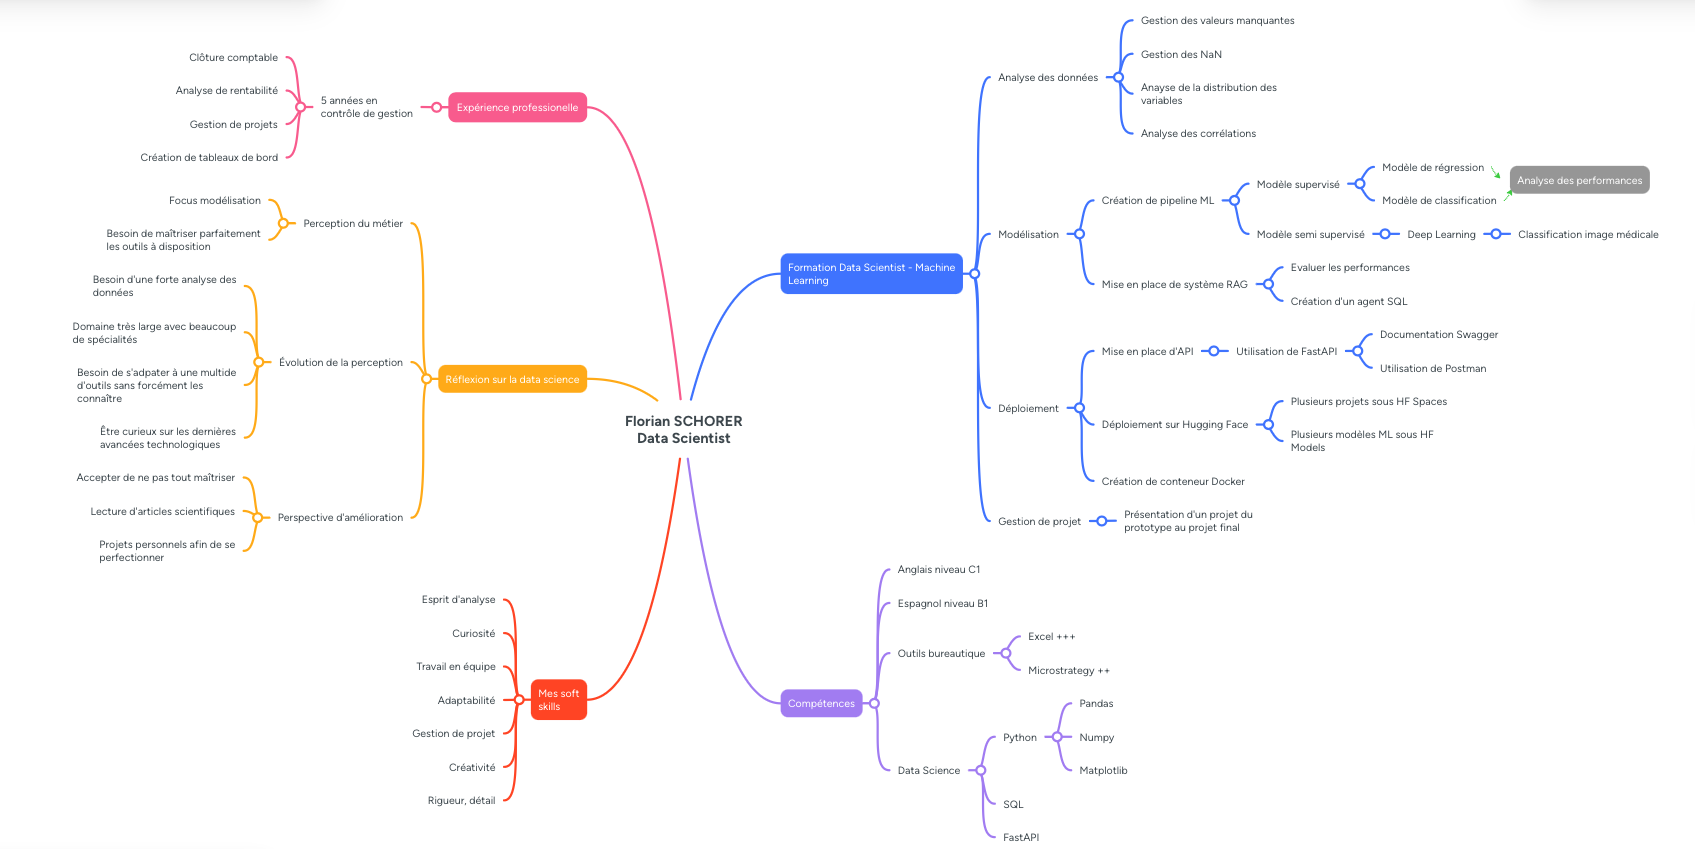
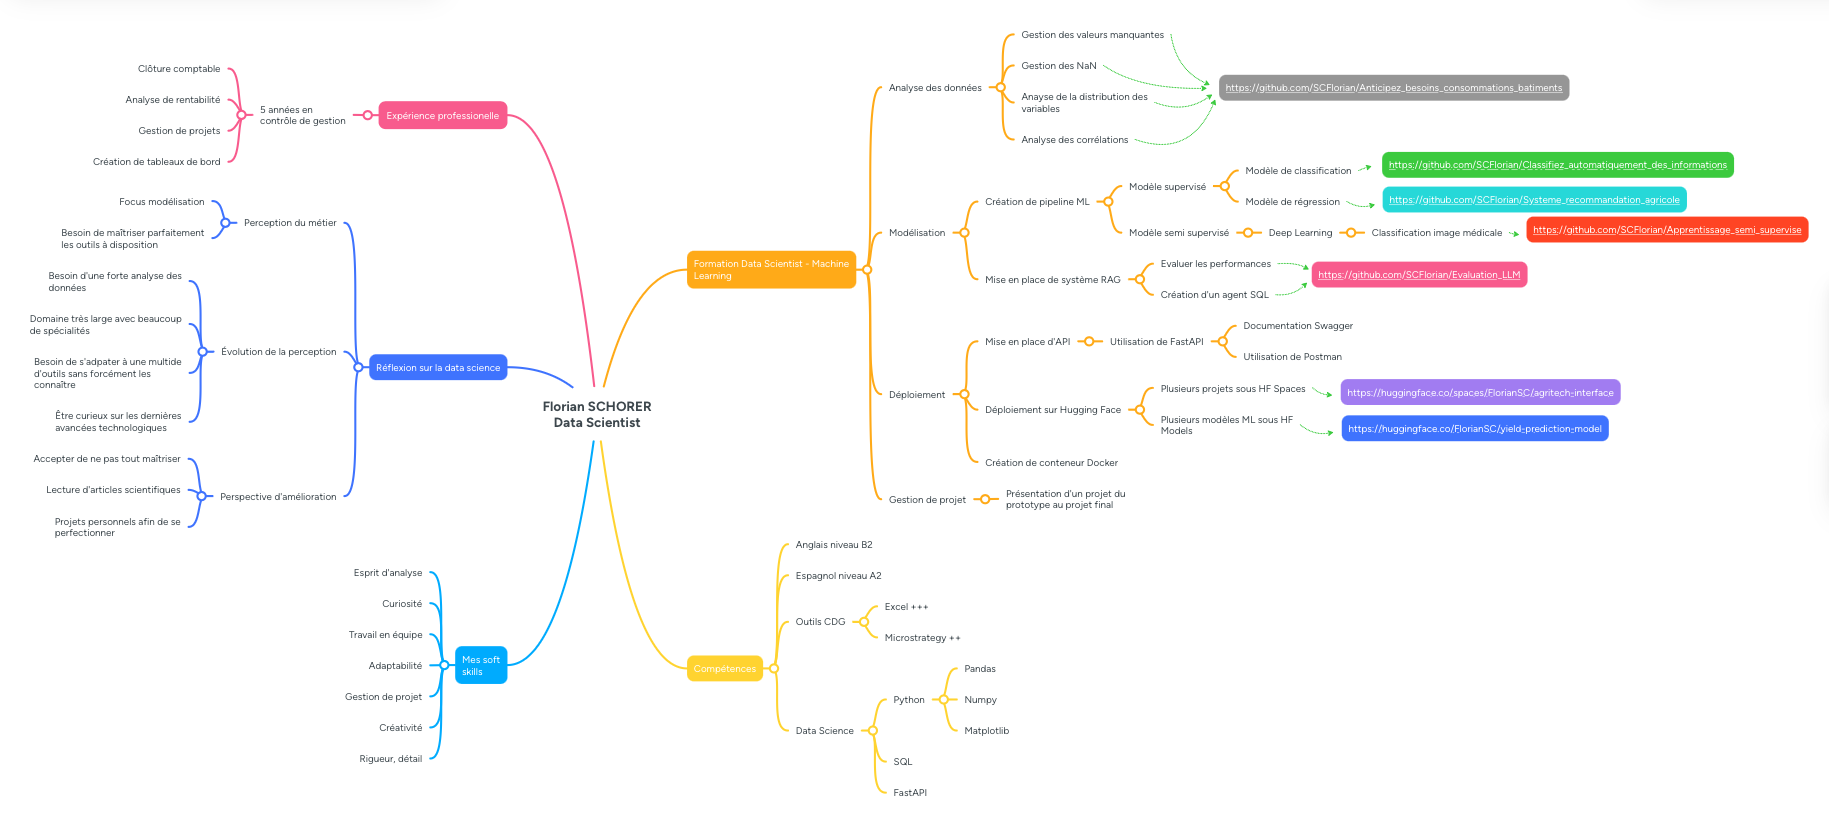
Ajout de lien dans la carte mentale

diff --git a/index.md b/index.md
@@ -18,7 +18,7 @@
 ## À propos de moi
 
 Après 5 années d'expérience en tant que Contrôleur de Gestion / Business Analyst
-dans le secteur du transport, je me suis accordé une parenthèse de 2 ans dédiée
+dans le secteur du transport, j'ai fait une parenthèse de 2 ans dédiée
 au voyage, incluant plusieurs mois en Australie où j'ai conjugué découverte et
 expérience professionnelle. Fort de cette double expérience, professionnelle et
 humaine, j'ai entrepris une reconversion vers la Data Science et le Machine
